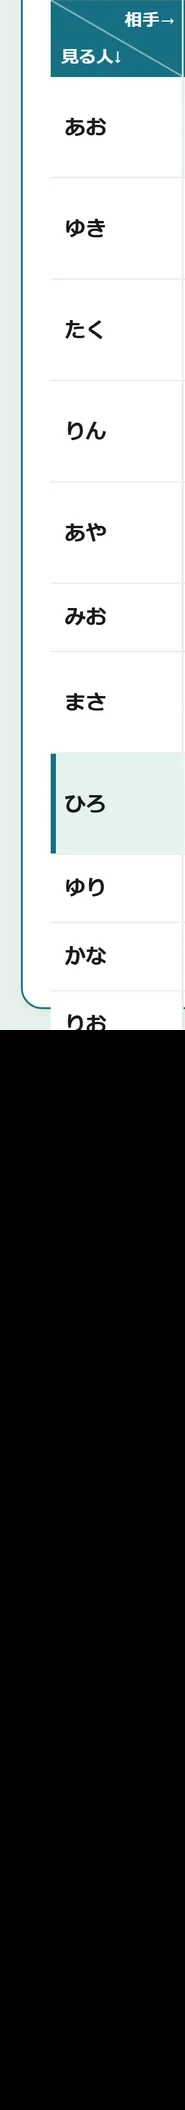
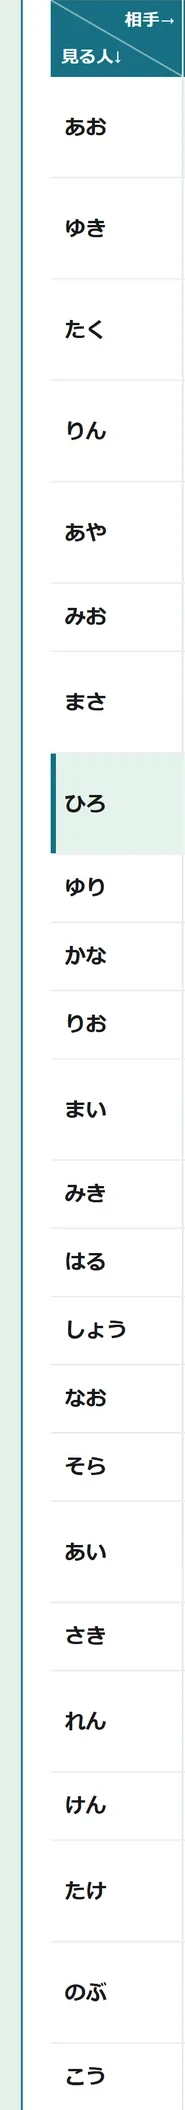
fix: 総当たり表の撮影で下の行が切れていたのを直す
.mx-scroll の max-height（縦スクロール枠）を外していなかったため、
メンバーが多いと総当たり表の下の方の行が写っていなかった（止める列の高さ比もずれていた）。
wshot() で max-height も none にし、総当たり表を撮り直し。

diff --git a/index.html b/index.html
@@ -2808,7 +2808,7 @@ height="0" width="0" style="display:none;visibility:hidden"></iframe></noscript>
     </div></div></div></figure>
         <figure class="lp-show"><figcaption><b>全員の成績を、1枚の表で</b><span>25人分でも1枚に。試合数・着順の回数・トップ率・通算スコアまで、メンバーを横に並べて。</span><a href="/news/nakama-page.html">くわしく見る ›</a></figcaption><button type="button" class="lp-shot lp-pan" onclick="lpZoom(this)" aria-label="全員の成績を、1枚の表でを大きく見る"><img src="/assets/screens/lp-hd-grid.webp" width="3000" height="1550" alt="仲間ページの成績表。25人分のゲーム数・試合数・平均着順・着順の回数・トップ率・通算スコア" loading="lazy" decoding="async"><img class="lp-col" src="/assets/screens/lp-hd-grid-c.webp" width="171" height="1069" alt="" style="--ct:0.2497;--ch:0.6897" loading="lazy" decoding="async"><span class="lp-look">押すと全体を見る</span></button></figure>
         <figure class="lp-show"><figcaption><b>仲間の順位が、表彰台で</b><span>通算スコアも平均着順もトップ率も。タブを押すだけで順位が入れかわります。</span><a href="/news/nakama-page.html">くわしく見る ›</a></figcaption><div class="lp-shot lp-flip" id="lp-flip" style="--rt:0.4581"><div class="rk on"><img class="rk-t" src="/assets/screens/lp-hd-rank-score-t.webp" width="1146" height="525" alt="" loading="lazy" decoding="async"><img class="rk-b" src="/assets/screens/lp-hd-rank-score.webp" width="1146" height="3931" alt="通算スコアの順の通算順位" loading="lazy" decoding="async"></div><div class="rk"><img class="rk-t" src="/assets/screens/lp-hd-rank-avg-t.webp" width="1146" height="525" alt="" loading="lazy" decoding="async"><img class="rk-b" src="/assets/screens/lp-hd-rank-avg.webp" width="1146" height="3931" alt="平均着順の順の通算順位" loading="lazy" decoding="async"></div><div class="rk"><img class="rk-t" src="/assets/screens/lp-hd-rank-top-t.webp" width="1146" height="525" alt="" loading="lazy" decoding="async"><img class="rk-b" src="/assets/screens/lp-hd-rank-top.webp" width="1146" height="3931" alt="トップ率の順の通算順位" loading="lazy" decoding="async"></div><div class="rk"><img class="rk-t" src="/assets/screens/lp-hd-rank-las-t.webp" width="1146" height="525" alt="" loading="lazy" decoding="async"><img class="rk-b" src="/assets/screens/lp-hd-rank-las.webp" width="1146" height="3931" alt="ラス回避の順の通算順位" loading="lazy" decoding="async"></div></div></figure>
-        <figure class="lp-show"><figcaption><b>あの人には勝ち越してる？</b><span>全員の総当たりを、1枚の表に。同じ試合で上だった回数で、相性が数字で出ます。</span><a href="/news/nakama-page.html#h2h">くわしく見る ›</a></figcaption><button type="button" class="lp-shot lp-pan lp-panxy" style="--ihn:1" onclick="lpZoom(this)" aria-label="あの人には勝ち越してる？を大きく見る"><img src="/assets/screens/lp-hd-h2h.webp" width="3000" height="1544" alt="総当たり表。25人のメンバー同士の直接対決の勝ち越し・負け越し" loading="lazy" decoding="async"><img class="lp-col" src="/assets/screens/lp-hd-h2h-c.webp" width="185" height="2110" alt="" style="--ct:0.3329;--ch:1.3666" loading="lazy" decoding="async"><span class="lp-look">押すと全体を見る</span></button></figure>
+        <figure class="lp-show"><figcaption><b>あの人には勝ち越してる？</b><span>全員の総当たりを、1枚の表に。同じ試合で上だった回数で、相性が数字で出ます。</span><a href="/news/nakama-page.html#h2h">くわしく見る ›</a></figcaption><button type="button" class="lp-shot lp-pan lp-panxy" style="--ihn:1.726" onclick="lpZoom(this)" aria-label="あの人には勝ち越してる？を大きく見る"><img src="/assets/screens/lp-hd-h2h.webp" width="3000" height="2675" alt="総当たり表。25人のメンバー同士の直接対決の勝ち越し・負け越し" loading="lazy" decoding="async"><img class="lp-col" src="/assets/screens/lp-hd-h2h-c.webp" width="185" height="2110" alt="" style="--ct:0.1921;--ch:0.7888" loading="lazy" decoding="async"><span class="lp-look">押すと全体を見る</span></button></figure>
         <figure class="lp-show"><figcaption><b>その日の順位とスコアが、ずらり</b><span>打った日ごとに、自分の順位とスコアが並びます。押せばその日の結果が開きます。</span><a href="/news/mypage-stats.html">くわしく見る ›</a></figcaption><button type="button" class="lp-shot lp-pany" onclick="lpZoom(this)" aria-label="その日の順位とスコアが、ずらりを大きく見る"><img src="/assets/screens/lp-hd-games.webp" width="1146" height="6789" alt="マイページの過去の試合の一覧。ゲームごとに自分の順位とスコア、相手が並ぶ" loading="lazy" decoding="async"></button></figure>
       </div>
       <div class="features-ctl"><button type="button" class="features-nav prev" id="shows-prev" onclick="snapScroll('shows',-1)" aria-label="前の画面へ"><svg viewBox="0 0 14 14" aria-hidden="true"><path d="M9 2 L4 7 L9 12" fill="none" stroke="currentColor" stroke-width="2.2" stroke-linecap="round" stroke-linejoin="round"/></svg></button><div class="features-dots" id="shows-dots" aria-hidden="true"></div><button type="button" class="features-nav next" id="shows-next" onclick="snapScroll('shows',1)" aria-label="次の画面へ"><svg viewBox="0 0 14 14" aria-hidden="true"><path d="M5 2 L10 7 L5 12" fill="none" stroke="currentColor" stroke-width="2.2" stroke-linecap="round" stroke-linejoin="round"/></svg></button></div>

diff --git a/tools/shoot_lp_big_plan.py b/tools/shoot_lp_big_plan.py
@@ -44,7 +44,7 @@ def wshot(js_parts, name, maxw=3000, col=False):
       b.style.cssText = `position:absolute;left:0;top:0;z-index:2147483000;background:${bg};padding:${pad}px;width:${w + pad * 2}px;box-sizing:border-box;display:flex;flex-direction:column;gap:8px`;
       els.forEach(e => b.appendChild(e.cloneNode(true))); document.body.appendChild(b);
       [...b.children].forEach(x => { x.style.width = w + 'px'; x.style.margin = '0'; x.style.boxSizing = 'border-box'; x.style.flex = 'none'; });
-      b.querySelectorAll('*').forEach(x => { const cs = getComputedStyle(x); if (cs.overflowX !== 'visible' || cs.overflowY !== 'visible') x.style.overflow = 'visible'; if (cs.position === 'sticky') x.style.position = 'relative'; });
+      b.querySelectorAll('*').forEach(x => { const cs = getComputedStyle(x); if (cs.overflowX !== 'visible' || cs.overflowY !== 'visible') x.style.overflow = 'visible'; if (cs.maxHeight !== 'none') x.style.maxHeight = 'none'; if (cs.position === 'sticky') x.style.position = 'relative'; });
       const card = [...b.children].filter(e => e.querySelector('table')).pop(), th = card.querySelector('table tr > *:first-child'), bl = b.getBoundingClientRect().left;
       const bt = b.getBoundingClientRect().top, tt = card.querySelector('table').getBoundingClientRect();
       return { colRight: th ? th.getBoundingClientRect().right - bl : 0, boxW: b.getBoundingClientRect().width, boxH: b.getBoundingClientRect().height, tTop: tt.top - bt, tBot: tt.bottom - bt }; }""", [js_parts, APP_PAD])

diff --git a/docs/image-tools.md b/docs/image-tools.md
@@ -126,6 +126,11 @@
   ログインする固定UID（`uidSHOT01`）に合わせる（合わせないと過去の試合が0件になる）
 - 本番DBをREST（urllib）で読むとApp Check強制で401になることがある。tools/appcheck.py の `install()` を使い、
   `tools/.appcheck-debug-token`（.gitignore済み）にFirebaseコンソールで発行したデバッグトークンを置く
+- **総当たり表（`.mx-scroll`）は `max-height: min(70vh, 560px)` の縦スクロール枠**なので、`wshot()` で
+  `overflow:visible` にしただけでは枠の高さが広がらず、メンバーが多いと下のほうの行が切れて撮れていた
+  （2026-11-04・24人で約11行しか写っていなかった）。`max-height` も `none` に外すこと（tools/shoot_lp_big_plan.py の `wshot`）。
+  切れて撮れると「止める列」の高さ比（--ch）が1を超える・`--ihn` が小さすぎる値になるので、meta の `ch`/`ihn` が1前後やそれ以上なのに
+  表の行数的に明らかに高さが足りなそうなときはこのズレを疑う
 - **アプリのUIを変えたら画像スクリプトも探す**。2026-09-17に、カード名の変更（2026-08）と用語の中立化（2026-08-26）が
   tools/の画像スクリプトに反映されておらず、OGP・Xヘッダー・IG全シリーズが「スコア収支」のままだった。
   `grep -rn "<旧UI語>" tools/*.py` を変更のたびに回すこと
